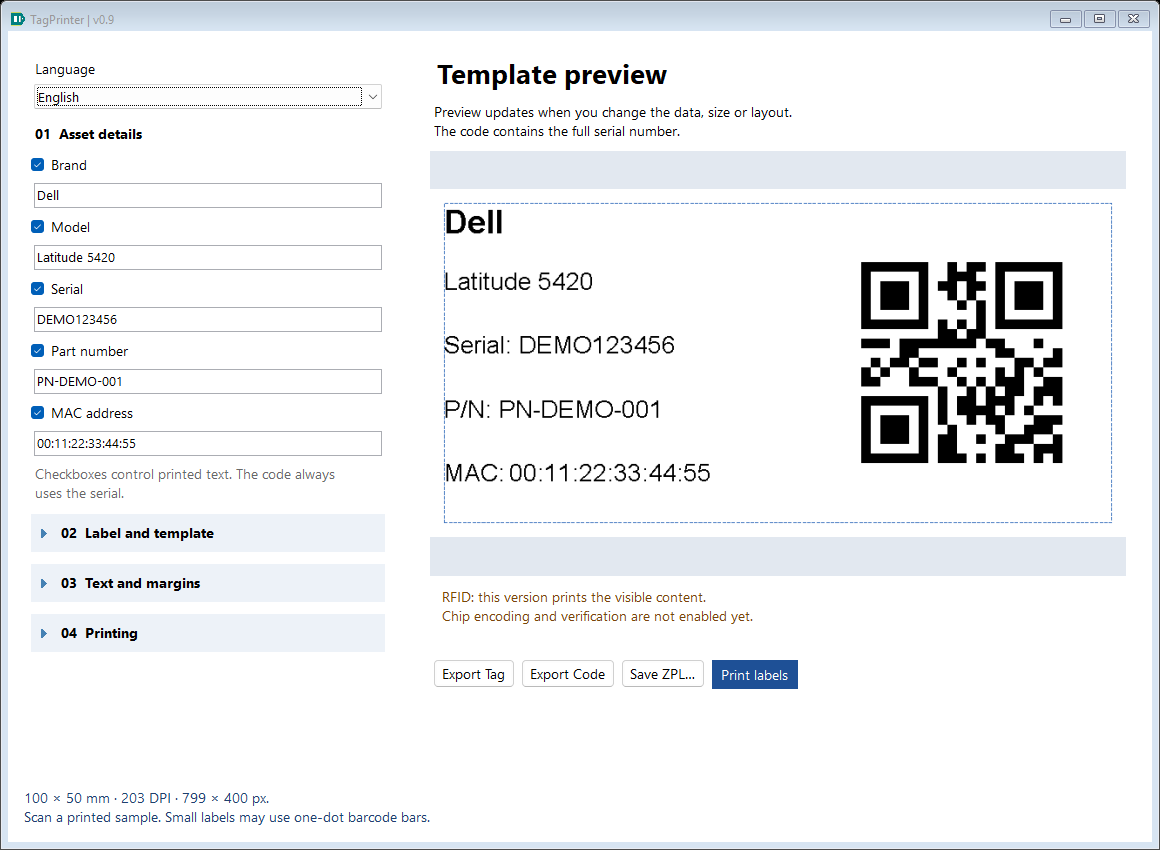
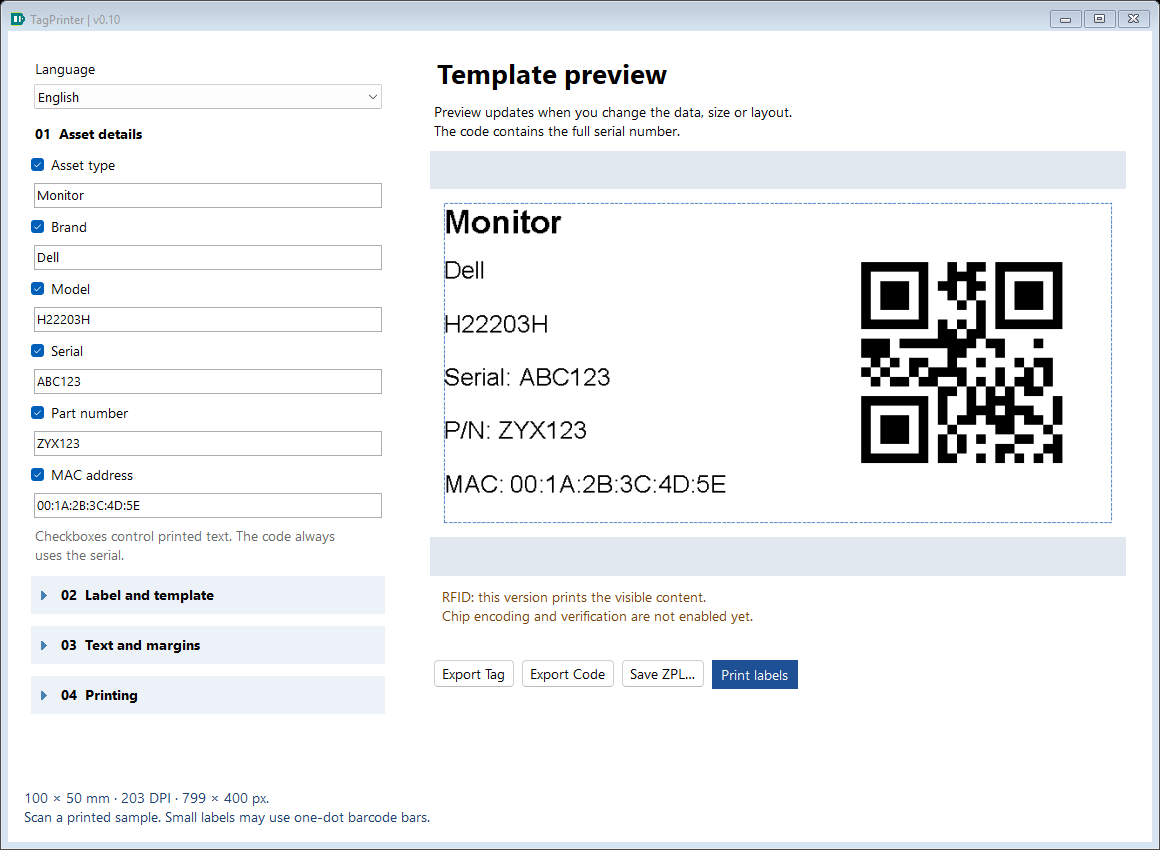
Add asset type before brand with visibility and saved work support

diff --git a/src/TagPrinter/MainForm.cs b/src/TagPrinter/MainForm.cs
@@ -4,6 +4,8 @@ namespace TagPrinter;
 
 public class MainForm : Form
 {
+    readonly TextBox assetType=new(){Text="Monitor"};
+    readonly CheckBox showAssetType=new(){Checked=true,AutoSize=true};
     readonly TextBox brand=new(){Text="Dell"}, model=new(){Text="22\" - H22203H"}, serial=new(){Text="ABC123456"};
     readonly TextBox partNumber=new(), macAddress=new();
     readonly CheckBox showPartNumber=new(){Checked=true,AutoSize=true}, showMacAddress=new(){Checked=true,AutoSize=true};
@@ -32,7 +34,7 @@ public class MainForm : Form
         config=configPath ?? Path.Combine(Environment.GetFolderPath(Environment.SpecialFolder.LocalApplicationData),"InventoryLabels","settings.json");
         appConfig=configuration ?? AppConfig.Load(Path.Combine(AppContext.BaseDirectory,"config.json"));
         Ui.Language=appConfig.Defaults.Language;
-        Text="TagPrinter | v0.9";
+        Text="TagPrinter | v0.10";
         using var iconStream=typeof(MainForm).Assembly.GetManifestResourceStream("TagPrinter.TagPrinter.ico");
         if(iconStream is not null)Icon=new Icon(iconStream); Width=1160; Height=850; MinimumSize=new Size(980,720);
         Font=new Font("Segoe UI",10); BackColor=Color.White; StartPosition=FormStartPosition.CenterScreen;
@@ -50,6 +52,8 @@ public class MainForm : Form
             check.Text=caption;check.Margin=new Padding(0,5,0,3);target.Controls.Add(check);
             input.Dock=DockStyle.Top;target.Controls.Add(input);
         }
+        TextField(showAssetType,Ui.T("Tipo de activo","Asset type"),assetType);
+        assetType.MaxLength=80;
         TextField(showBrand,Ui.T("Marca","Brand"),brand);
         TextField(showModel,Ui.T("Modelo","Model"),model);
         TextField(showSerialText,"Serial",serial);
@@ -104,8 +108,8 @@ public class MainForm : Form
         layout.SelectedIndex=appConfig.Defaults.Layout;code.SelectedIndex=appConfig.Defaults.Qr?1:0;mode.SelectedIndex=0;dpi.SelectedIndex=appConfig.Defaults.Dpi==300?1:0;
         margin.Value=appConfig.Defaults.MarginMm;autoFont.Checked=appConfig.Defaults.AutoFont;fontPercent=appConfig.Defaults.FontPercent;
         LoadPrinters();LoadConfig();
-        foreach(var check in new[]{showBrand,showModel,showSerialText,showPartNumber,showMacAddress})check.CheckedChanged+=(_,_)=>UpdatePreview();
-        foreach(var t in new[]{brand,model,serial,partNumber,macAddress})t.TextChanged+=(_,_)=>UpdatePreview();
+        foreach(var check in new[]{showAssetType,showBrand,showModel,showSerialText,showPartNumber,showMacAddress})check.CheckedChanged+=(_,_)=>UpdatePreview();
+        foreach(var t in new[]{assetType,brand,model,serial,partNumber,macAddress})t.TextChanged+=(_,_)=>UpdatePreview();
         foreach(var c in new[]{layout,code,mode,dpi})c.SelectedIndexChanged+=(_,_)=>UpdatePreview();
         sizes.SelectedIndexChanged+=(_,_)=>ApplySize(); width.ValueChanged+=(_,_)=>UpdatePreview();height.ValueChanged+=(_,_)=>UpdatePreview();
         language.SelectedIndex=Ui.Language=="es"?1:0;
@@ -117,7 +121,7 @@ public class MainForm : Form
         FormClosing+=(_,_)=>SaveConfig();Ui.Translate(this);ready=true;ApplySize();
     }
     void Guard(Action action) {try {action();}catch(Exception ex){MessageBox.Show(this,ex.Message,Ui.T("Etiquetas","TagPrinter"),MessageBoxButtons.OK,MessageBoxIcon.Warning);}}
-    LabelData Data()=>new(brand.Text.Trim(),model.Text.Trim(),serial.Text.Trim(),width.Value,height.Value,int.Parse(dpi.Text),layout.SelectedIndex,code.SelectedIndex==1,autoFont.Checked,fontPercent,margin.Value,offsetX.Value,offsetY.Value,showBrand.Checked,showModel.Checked,showSerialText.Checked,partNumber.Text.Trim(),macAddress.Text.Trim(),showPartNumber.Checked,showMacAddress.Checked);
+    LabelData Data()=>new(brand.Text.Trim(),model.Text.Trim(),serial.Text.Trim(),width.Value,height.Value,int.Parse(dpi.Text),layout.SelectedIndex,code.SelectedIndex==1,autoFont.Checked,fontPercent,margin.Value,offsetX.Value,offsetY.Value,showBrand.Checked,showModel.Checked,showSerialText.Checked,partNumber.Text.Trim(),macAddress.Text.Trim(),showPartNumber.Checked,showMacAddress.Checked,assetType.Text.Trim(),showAssetType.Checked);
     internal void ChangeFont(int step)
     {
         fontPercent=Math.Clamp((autoFont.Checked?effectiveFontPercent:fontPercent)+step,50,200);
@@ -219,7 +223,7 @@ public class MainForm : Form
         return name;
     }
     void ScheduleSave(){if(!ready)return;autosave.Stop();autosave.Start();}
-    internal WorkState CaptureWork()=>new(){Printer=printers.Text,Size=sizes.SelectedIndex,LabelPresetId=sizes.SelectedIndex<appConfig.LabelSizes.Count?appConfig.LabelSizes[sizes.SelectedIndex].Id:"custom",Width=width.Value,Height=height.Value,Layout=layout.SelectedIndex,Code=code.SelectedIndex,Mode=mode.SelectedIndex,Dpi=dpi.SelectedIndex,Brand=brand.Text,PartNumber=partNumber.Text,MacAddress=macAddress.Text,ShowPartNumber=showPartNumber.Checked,ShowMacAddress=showMacAddress.Checked,Model=model.Text,Serial=serial.Text,Language=Ui.Language,ShowBrand=showBrand.Checked,ShowModel=showModel.Checked,ShowSerialText=showSerialText.Checked,ShowGuides=showGuides.Checked,AutoFont=autoFont.Checked,FontPercent=fontPercent,MarginMm=margin.Value,OffsetXmm=offsetX.Value,OffsetYmm=offsetY.Value,Copies=(int)copies.Value};
+    internal WorkState CaptureWork()=>new(){Printer=printers.Text,Size=sizes.SelectedIndex,LabelPresetId=sizes.SelectedIndex<appConfig.LabelSizes.Count?appConfig.LabelSizes[sizes.SelectedIndex].Id:"custom",Width=width.Value,Height=height.Value,Layout=layout.SelectedIndex,Code=code.SelectedIndex,Mode=mode.SelectedIndex,Dpi=dpi.SelectedIndex,AssetType=assetType.Text,ShowAssetType=showAssetType.Checked,Brand=brand.Text,PartNumber=partNumber.Text,MacAddress=macAddress.Text,ShowPartNumber=showPartNumber.Checked,ShowMacAddress=showMacAddress.Checked,Model=model.Text,Serial=serial.Text,Language=Ui.Language,ShowBrand=showBrand.Checked,ShowModel=showModel.Checked,ShowSerialText=showSerialText.Checked,ShowGuides=showGuides.Checked,AutoFont=autoFont.Checked,FontPercent=fontPercent,MarginMm=margin.Value,OffsetXmm=offsetX.Value,OffsetYmm=offsetY.Value,Copies=(int)copies.Value};
     internal void Restore(WorkState s)
     {
         bool wasReady=ready;ready=false;
@@ -228,6 +232,7 @@ public class MainForm : Form
         if(presetIndex<0 && s.LabelPresetId!="custom")presetIndex=appConfig.LabelSizes.FindIndex(p=>p.WidthMm==s.Width && p.HeightMm==s.Height);
         sizes.SelectedIndex=presetIndex>=0?presetIndex:appConfig.LabelSizes.Count;width.Value=Math.Clamp(s.Width,width.Minimum,width.Maximum);height.Value=Math.Clamp(s.Height,height.Minimum,height.Maximum);
         layout.SelectedIndex=Math.Clamp(s.Layout,0,3);code.SelectedIndex=Math.Clamp(s.Code,0,1);mode.SelectedIndex=Math.Clamp(s.Mode,0,1);dpi.SelectedIndex=Math.Clamp(s.Dpi,0,1);
+        assetType.Text=s.AssetType;showAssetType.Checked=s.ShowAssetType;
         partNumber.Text=s.PartNumber;macAddress.Text=s.MacAddress;showPartNumber.Checked=s.ShowPartNumber;showMacAddress.Checked=s.ShowMacAddress;
         showBrand.Checked=s.ShowBrand;showModel.Checked=s.ShowModel;showSerialText.Checked=s.ShowSerialText;
         showGuides.Checked=s.ShowGuides;autoFont.Checked=s.AutoFont;fontPercent=Math.Clamp(s.FontPercent,50,200);margin.Value=Math.Clamp(s.MarginMm,1,5);offsetX.Value=Math.Clamp(s.OffsetXmm,-5,5);offsetY.Value=Math.Clamp(s.OffsetYmm,-5,5);

diff --git a/src/TagPrinter/SelfTest.cs b/src/TagPrinter/SelfTest.cs
@@ -24,8 +24,9 @@ public static class SelfTest
         TestCodeExport(folder);
         TestFieldVisibility(folder);
         TestConfigurationAndAssetFields(folder);
+        TestAssetType(folder);
         string statePath=Path.Combine(folder,"test-work.json");
-        var work=new WorkState{Brand="Laptop",Model="Dell Latitude",Serial="TEST/123",Size=6,Width=65,Height=35,Layout=3,Code=1,Dpi=1,Copies=4,Language="es",AutoFont=false,FontPercent=70,MarginMm=3,OffsetXmm=.5m,OffsetYmm=-.5m,ShowBrand=false,ShowModel=true,ShowSerialText=false,PartNumber="PN-DEMO-001",MacAddress="00:11:22:33:44:55",ShowPartNumber=false,ShowMacAddress=false};
+        var work=new WorkState{AssetType="Laptop",ShowAssetType=false,Brand="Laptop",Model="Dell Latitude",Serial="TEST/123",Size=6,Width=65,Height=35,Layout=3,Code=1,Dpi=1,Copies=4,Language="es",AutoFont=false,FontPercent=70,MarginMm=3,OffsetXmm=.5m,OffsetYmm=-.5m,ShowBrand=false,ShowModel=true,ShowSerialText=false,PartNumber="PN-DEMO-001",MacAddress="00:11:22:33:44:55",ShowPartNumber=false,ShowMacAddress=false};
         WorkStore.Save(statePath,work);
         if(WorkStore.Load(statePath)!=work)throw new Exception("Work persistence mismatch");
         if(MainForm.SafeFileName("ABC12345644")!="ABC12345644" || MainForm.SafeFileName("TEST/123")!="TEST_123" || MainForm.SafeFileName("CON")!="_CON")throw new Exception("Invalid file name");
@@ -54,9 +55,9 @@ public static class SelfTest
         {
             if(reopened.templateSection.Expanded || reopened.textSection.Expanded || reopened.printingSection.Expanded)throw new Exception("Reopened sections must start collapsed");
             var restored=reopened.CaptureWork();
-            if(restored.Serial!="ABC12345644" || restored.Language!="es" || restored.Layout!=3 || restored.Copies!=4 || restored.AutoFont || restored.FontPercent!=70 || restored.MarginMm!=3 || restored.OffsetXmm!=.5m || restored.OffsetYmm!=-.5m || restored.ShowBrand || !restored.ShowModel || restored.ShowSerialText || restored.PartNumber!="PN-DEMO-001" || restored.MacAddress!="00:11:22:33:44:55" || restored.ShowPartNumber || restored.ShowMacAddress)throw new Exception("UI restore failed");
+            if(restored.Serial!="ABC12345644" || restored.Language!="es" || restored.Layout!=3 || restored.Copies!=4 || restored.AutoFont || restored.FontPercent!=70 || restored.MarginMm!=3 || restored.OffsetXmm!=.5m || restored.OffsetYmm!=-.5m || restored.ShowBrand || !restored.ShowModel || restored.ShowSerialText || restored.PartNumber!="PN-DEMO-001" || restored.MacAddress!="00:11:22:33:44:55" || restored.ShowPartNumber || restored.ShowMacAddress || restored.AssetType!="Laptop" || restored.ShowAssetType)throw new Exception("UI restore failed");
         }
-        File.WriteAllText(Path.Combine(folder,"results.txt"),$"PASS: {count} etiquetas generadas y decodificadas (2 tamaños × 2 resoluciones × 4 plantillas × 2 tipos). Serial vacío rechazado. Persistencia de trabajo/idioma, reapertura y nombres de archivo comprobados. Fuente manual/automática, márgenes, guías y desplazamientos comprobados. ZPL con dimensiones y cantidad comprobados. Exportación independiente QR/Code 128 y nombres de archivo comprobados. Visibilidad de campos: 32 combinaciones decodificadas y preferencias restauradas. Campos P/N y MAC, configuración JSON y migración Title/Brand comprobados. No se envió ningún trabajo a impresoras.");
+        File.WriteAllText(Path.Combine(folder,"results.txt"),$"PASS: {count} etiquetas generadas y decodificadas (2 tamaños × 2 resoluciones × 4 plantillas × 2 tipos). Serial vacío rechazado. Persistencia de trabajo/idioma, reapertura y nombres de archivo comprobados. Fuente manual/automática, márgenes, guías y desplazamientos comprobados. ZPL con dimensiones y cantidad comprobados. Exportación independiente QR/Code 128 y nombres de archivo comprobados. Visibilidad de campos: 32 combinaciones decodificadas y preferencias restauradas. Campos P/N y MAC, configuración JSON y migración Title/Brand comprobados. Tipo de activo, seis campos, visibilidad y persistencia comprobados. No se envió ningún trabajo a impresoras.");
     }
     static void TestTypographyAndMargins(string folder)
     {
@@ -227,13 +228,34 @@ public static class SelfTest
         }
         using(var screenshotForm=new MainForm(Path.Combine(folder,"screenshot-"+Guid.NewGuid()+".json"),AppConfig.CreateDefault()))
         {
-            screenshotForm.Restore(new WorkState{Brand="Dell",Model="Latitude 5420",Serial="DEMO123456",PartNumber="PN-DEMO-001",MacAddress="00:11:22:33:44:55",Code=1});
+            screenshotForm.Restore(new WorkState{AssetType="Monitor",Brand="Dell",Model="H22203H",Serial="ABC123",PartNumber="ZYX123",MacAddress="00:1A:2B:3C:4D:5E",Code=1});
             screenshotForm.Show();Application.DoEvents();
             using(var capture=new Bitmap(screenshotForm.Width,screenshotForm.Height)){screenshotForm.DrawToBitmap(capture,new Rectangle(Point.Empty,screenshotForm.Size));capture.Save(Path.Combine(folder,"asset-fields-en.png"));}
             screenshotForm.Restore(screenshotForm.CaptureWork() with {Language="es"});Application.DoEvents();
             using(var capture=new Bitmap(screenshotForm.Width,screenshotForm.Height)){screenshotForm.DrawToBitmap(capture,new Rectangle(Point.Empty,screenshotForm.Size));capture.Save(Path.Combine(folder,"asset-fields-es.png"));}
             screenshotForm.Close();
         }
+    }
+
+    static void TestAssetType(string folder)
+    {
+        foreach(int dpi in new[]{203,300})foreach(bool qr in new[]{false,true})foreach(bool visible in new[]{false,true})
+        {
+            var data=new LabelData("Dell","H22203H","ABC123",100,50,dpi,3,qr,PartNumber:"ZYX123",MacAddress:"00:1A:2B:3C:4D:5E",AssetType:"Monitor",ShowAssetType:visible);
+            using var image=LabelRenderer.Render(data);
+            var rgb=new byte[image.Width*image.Height*3];
+            for(int y=0;y<image.Height;y++)for(int x=0;x<image.Width;x++){var c=image.GetPixel(x,y);int i=(y*image.Width+x)*3;rgb[i]=c.R;rgb[i+1]=c.G;rgb[i+2]=c.B;}
+            var decoded=new BarcodeReaderGeneric{Options=new ZXing.Common.DecodingOptions{TryHarder=true}}.Decode(new RGBLuminanceSource(rgb,image.Width,image.Height,RGBLuminanceSource.BitmapFormat.RGB24));
+            if(decoded?.Text!="ABC123")throw new Exception("Asset type changed code payload");
+            if(!visible)
+            {
+                using var changed=LabelRenderer.Render(data with {AssetType=new string('X',300)});
+                for(int y=0;y<image.Height;y++)for(int x=0;x<image.Width;x++)if(image.GetPixel(x,y)!=changed.GetPixel(x,y))throw new Exception("Hidden asset type rendered");
+            }
+            else if(dpi==203)image.Save(Path.Combine(folder,qr?"six-fields-qr.png":"six-fields-barcode.png"));
+        }
+        string legacy=Path.Combine(folder,"asset-type-legacy.json");File.WriteAllText(legacy,"{\"Brand\":\"Dell\",\"Serial\":\"OLD123\"}");
+        if(WorkStore.Load(legacy).AssetType!="")throw new Exception("Invented asset type for existing work");
     }
 
 }

diff --git a/src/TagPrinter/LabelRenderer.cs b/src/TagPrinter/LabelRenderer.cs
@@ -4,7 +4,7 @@ using ZXing;
 using ZXing.Common;
 namespace TagPrinter;
 
-public record LabelData(string Brand, string Model, string Serial, decimal WidthMm, decimal HeightMm, int Dpi, int Layout, bool Qr, bool AutoFont = true, int FontPercent = 100, decimal MarginMm = 2, decimal OffsetXmm = 0, decimal OffsetYmm = 0, bool ShowBrand = true, bool ShowModel = true, bool ShowSerialText = true, string PartNumber = "", string MacAddress = "", bool ShowPartNumber = true, bool ShowMacAddress = true);
+public record LabelData(string Brand, string Model, string Serial, decimal WidthMm, decimal HeightMm, int Dpi, int Layout, bool Qr, bool AutoFont = true, int FontPercent = 100, decimal MarginMm = 2, decimal OffsetXmm = 0, decimal OffsetYmm = 0, bool ShowBrand = true, bool ShowModel = true, bool ShowSerialText = true, string PartNumber = "", string MacAddress = "", bool ShowPartNumber = true, bool ShowMacAddress = true, string AssetType = "", bool ShowAssetType = true);
 public static class LabelRenderer
 {
     public static Bitmap Render(LabelData d, bool guides = false)=>Render(d,guides,out _);
@@ -21,8 +21,10 @@ public static class LabelRenderer
         var content = new Rectangle(m+dx, m+dy, w - 2*m, h - 2*m);
         if(content.Left<0 || content.Top<0 || content.Right>w || content.Bottom>h)
             throw new ArgumentException(Ui.T("El desplazamiento supera el espacio disponible. Auméntalo menos o amplía el margen.","The offset exceeds the available space. Reduce it or increase the margin."));
-        var lines = new List<(string Text, bool IsBrand)>();
-        if(d.ShowBrand)lines.Add((d.Brand,true));
+        var lines = new List<(string Text, bool IsHeading)>();
+        bool hasAssetType=d.ShowAssetType && !string.IsNullOrWhiteSpace(d.AssetType);
+        if(hasAssetType)lines.Add((d.AssetType,true));
+        if(d.ShowBrand)lines.Add((d.Brand,!hasAssetType));
         if(d.ShowModel)lines.Add((d.Model,false));
         if(d.ShowSerialText)lines.Add(("Serial: "+d.Serial,false));
         if(d.ShowPartNumber && !string.IsNullOrWhiteSpace(d.PartNumber))lines.Add(("P/N: "+d.PartNumber,false));
@@ -47,13 +49,13 @@ public static class LabelRenderer
             using var g = Graphics.FromImage(bmp); g.Clear(Color.White);
             g.TextRenderingHint = System.Drawing.Text.TextRenderingHint.SingleBitPerPixelGridFit;
             using var fmt = new StringFormat(StringFormat.GenericTypographic) { Trimming = StringTrimming.None };
-            float[] baseSizes = lines.Select(line=>d.Dpi*(line.IsBrand?13f:10f)/72f).ToArray();
+            float[] baseSizes = lines.Select(line=>d.Dpi*(line.IsHeading?13f:10f)/72f).ToArray();
             var textRects=Enumerable.Range(0,lineCount).Select(i=>new RectangleF(content.Left,content.Top+textH*i/(float)lineCount,textW,textH/(float)lineCount)).ToArray();
             bool Fits(float factor)
             {
                 for(int i=0;i<lineCount;i++)
                 {
-                    using var font=new Font("Arial",baseSizes[i]*factor,lines[i].IsBrand?FontStyle.Bold:FontStyle.Regular,GraphicsUnit.Pixel);
+                    using var font=new Font("Arial",baseSizes[i]*factor,lines[i].IsHeading?FontStyle.Bold:FontStyle.Regular,GraphicsUnit.Pixel);
                     var measured=g.MeasureString(lines[i].Text,font,new SizeF(textRects[i].Width,10000),fmt);
                     if(measured.Width>textRects[i].Width || measured.Height>textRects[i].Height)return false;
                 }
@@ -68,7 +70,7 @@ public static class LabelRenderer
             if(!Fits(factor))throw new ArgumentException(Ui.T("El texto no cabe. Reduce la fuente con −, activa el ajuste automático o amplía la etiqueta.","Text does not fit. Reduce text size with −, enable automatic fit or use a larger label."));
             for(int i=0;i<lineCount;i++)
             {
-                using var font=new Font("Arial",baseSizes[i]*factor,lines[i].IsBrand?FontStyle.Bold:FontStyle.Regular,GraphicsUnit.Pixel);
+                using var font=new Font("Arial",baseSizes[i]*factor,lines[i].IsHeading?FontStyle.Bold:FontStyle.Regular,GraphicsUnit.Pixel);
                 g.DrawString(lines[i].Text,font,Brushes.Black,textRects[i],fmt);
             }
             for(int row=0; row<matrix.Height; row++) for(int col=0; col<matrix.Width; col++)

diff --git a/src/TagPrinter/Ui.cs b/src/TagPrinter/Ui.cs
@@ -17,6 +17,7 @@ public static class Ui
         ("Las casillas controlan el texto impreso. El código siempre usa el serial.","Checkboxes control printed text. The code always uses the serial."),
         ("01  Datos del activo","01  Asset details"),
         ("Marca","Brand"),
+        ("Tipo de activo","Asset type"),
         ("Modelo","Model"),
         ("Serial (contenido del código)","Serial (code content)"),
         ("02  Etiqueta y plantilla","02  Label and template"),

diff --git a/src/TagPrinter/WorkStore.cs b/src/TagPrinter/WorkStore.cs
@@ -10,6 +10,8 @@ public record WorkState
     public int Code {get;init;}
     public int Mode {get;init;}
     public int Dpi {get;init;}
+    public string AssetType {get;init;}="";
+    public bool ShowAssetType {get;init;}=true;
     public string Brand {get;init;}="Dell";
     public string Model {get;init;}="22\" - H22203H";
     public string Serial {get;init;}="ABC123456";

diff --git a/README.md b/README.md
@@ -4,7 +4,7 @@ Windows desktop app for inventory labels / Aplicación de escritorio para etique
 
 **C# · WinForms · .NET 8 · Windows x64 · English / Español**
 
-![TagPrinter — five inventory fields](docs/images/tagprinter-en.png)
+![TagPrinter — six inventory fields](docs/images/tagprinter-en.png)
 
 ## Download / Descargar
 
@@ -16,7 +16,7 @@ Extrae todo el ZIP y abre **TagPrinter.exe**. Incluye .NET. Instala por separado
 
 ## Features / Funciones
 
-- Brand / Marca, Model / Modelo, Serial, Part number / No. de parte and MAC address / Dirección MAC, each with its own visibility checkbox.
+- Asset type / Tipo de activo, Brand / Marca, Model / Modelo, Serial, Part number / No. de parte and MAC address / Dirección MAC, each with its own visibility checkbox.
 - QR or Code 128 containing the serial. Hiding the printed serial does not change the code.
 - Label-size presets, custom dimensions, four layouts, font scaling, margins and print offsets.
 - Collapsible settings sections, English/Spanish UI, automatic save and restore of the last work.
@@ -50,7 +50,7 @@ powershell -ExecutionPolicy Bypass -File scripts/Test.ps1
 powershell -ExecutionPolicy Bypass -File scripts/Publish.ps1
 ```
 
-The publish script verifies the self-contained EXE and creates `artifacts/TagPrinter-v0.9-PORTABLE-Windows-x64.zip`. Generated output is not tracked in Git.
+The publish script verifies the self-contained EXE and creates `artifacts/TagPrinter-v0.10-PORTABLE-Windows-x64.zip`. Generated output is not tracked in Git.
 
 ## Documentation
 
@@ -72,3 +72,5 @@ La selección de impresora usa dispositivos instalados en Windows. ZPL directo r
 
 ZXing.Net 0.16.11 — Michael Jahn and contributors — [Apache-2.0](https://www.apache.org/licenses/LICENSE-2.0), [project](https://github.com/micjahn/ZXing.Net).
 .NET runtime — Microsoft and contributors — [license and notices](https://github.com/dotnet/runtime/blob/main/LICENSE.TXT).
+
+Tipo de activo / Asset type aparece antes de Marca y tiene checkbox y autoguardado. Ejemplo: Monitor / Dell / H22203H / ABC123 / ZYX123 / 00:1A:2B:3C:4D:5E. El código representa ABC123. En trabajos existentes el nuevo campo empieza vacío para no inventar el tipo; completa su valor cuando corresponda.

diff --git a/docs/USER_GUIDE.md b/docs/USER_GUIDE.md
@@ -1,4 +1,4 @@
-# Guía de uso — TagPrinter 0.9
+# Guía de uso — TagPrinter 0.10
 
 ## Abrir
 
@@ -6,11 +6,11 @@ Extrae todo el ZIP portable y abre TagPrinter.exe. Conserva sus archivos y carpe
 
 ## Datos del activo
 
-Marca / Brand, Modelo / Model, Serial, No. de parte / Part number y Dirección MAC / MAC address. Las cinco casillas comienzan marcadas para trabajos nuevos. Desmarcar oculta solo el texto y conserva el valor editable.
+Tipo de activo / Asset type, Marca / Brand, Modelo / Model, Serial, No. de parte / Part number y Dirección MAC / MAC address. Las seis casillas comienzan marcadas para trabajos nuevos. Desmarcar oculta solo el texto y conserva el valor editable.
 
 El serial es obligatorio: alimenta el QR o Code 128 incluso si ocultas su texto. No. de parte y MAC son opcionales; si están vacíos no consumen espacio en la etiqueta. MAC se imprime tal como se escribe; no se normaliza ni se valida como dirección de red en esta versión.
 
-Los textos visibles se redistribuyen. Si desmarcas todos, queda únicamente el código. Cinco campos pueden no caber en etiquetas pequeñas; usa un tamaño mayor o desmarca los que no necesitas. No se recortan textos silenciosamente.
+Los textos visibles se redistribuyen. Si desmarcas todos, queda únicamente el código. Seis campos pueden no caber en etiquetas pequeñas; usa un tamaño mayor o desmarca los que no necesitas. No se recortan textos silenciosamente.
 
 ## Secciones 02, 03 y 04
 
@@ -43,3 +43,5 @@ Los antiguos Title / ShowTitle migran a Brand / ShowBrand sin borrar valores. Re
 ## Configuración general
 
 [config.json: tamaños y valores iniciales](CONFIGURATION.md). Edita el archivo junto al EXE y reinicia. La aplicación no lo reescribe al guardar el trabajo.
+
+Tipo de activo / Asset type aparece antes de Marca y tiene checkbox y autoguardado. Ejemplo: Monitor / Dell / H22203H / ABC123 / ZYX123 / 00:1A:2B:3C:4D:5E. El código representa ABC123. En trabajos existentes el nuevo campo empieza vacío para no inventar el tipo; completa su valor cuando corresponda.

diff --git a/docs/STATUS.md b/docs/STATUS.md
@@ -1,9 +1,11 @@
 # Estado
 
-Versión 0.9.0. Proyecto: C:\Projects\TagPrinter. Repositorio: https://github.com/dafermen/TagPrinter.
+Versión 0.10.0. Proyecto: C:\Projects\TagPrinter. Repositorio: https://github.com/dafermen/TagPrinter.
 
-Completado: cinco campos con visibilidad individual, Brand en lugar de Title, migración de trabajos anteriores, configuración JSON de tamaños/defaults, imágenes y documentación bilingüe, impresión/exportación y portable autocontenido.
+Completado: seis campos con visibilidad individual, Brand en lugar de Title, migración de trabajos anteriores, configuración JSON de tamaños/defaults, imágenes y documentación bilingüe, impresión/exportación y portable autocontenido.
 
 Los valores de ejemplo de las capturas son sintéticos. El código utiliza siempre el serial. P/N y MAC vacíos no ocupan filas. Configuración general y último trabajo están separados.
 
 Pendiente: validar hardware real y definir/implementar grabación/verificación RFID. No hay importación de inventario ni historial completo.
+
+Tipo de activo / Asset type aparece antes de Marca y tiene checkbox y autoguardado. Ejemplo: Monitor / Dell / H22203H / ABC123 / ZYX123 / 00:1A:2B:3C:4D:5E. El código representa ABC123. En trabajos existentes el nuevo campo empieza vacío para no inventar el tipo; completa su valor cuando corresponda.

diff --git a/docs/VALIDATION.md b/docs/VALIDATION.md
@@ -35,3 +35,7 @@ Las comprobaciones de estado inicial, expansión, contracción, conservación de
 ## v0.9
 
 Ocho combinaciones de P/N/MAC y QR/Code 128 decodificadas. Pruebas de persistencia de campos/flags, migración Title/ShowTitle, defaults desde JSON, rechazo de JSON inválido/configuración fuera de rango, selección estable tras reordenar tamaños y recuperación como personalizado al retirar un preset. Capturas sintéticas asset-fields-en.png y asset-fields-es.png. La prueba no envía etiquetas a impresoras ni toca el último trabajo del usuario.
+
+## v0.10
+
+Ocho combinaciones de Tipo visible/oculto, 203/300 DPI y QR/Code 128; los seis campos del ejemplo se renderizan y se recupera siempre ABC123 del código. Comparación de imágenes con Tipo oculto, persistencia del valor/checkbox, carga de trabajos anteriores sin inventar un tipo y capturas en ambos idiomas.

diff --git a/docs/CHANGELOG.md b/docs/CHANGELOG.md
@@ -1,5 +1,9 @@
 # Cambios
 
+## 0.10.0
+
+Tipo de activo / Asset type antes de Marca, checkbox independiente, autoguardado y recuperación. Seis campos en la etiqueta. Tipo como encabezado; marca conserva el encabezado si se oculta o vacía Tipo. Ejemplo y capturas actualizados. Compatibilidad: trabajos anteriores mantienen sus valores y el nuevo campo vacío.
+
 ## 0.9.0 — 2026-11-01
 
 Brand / Marca sustituye Title; Model / Modelo separado. Nuevos Part number y MAC address con checkboxes y autoguardado. Migración de datos anteriores. config.json editable: tamaños por Id y valores iniciales validados. Repositorio GitHub, documentación y capturas en inglés/español.
